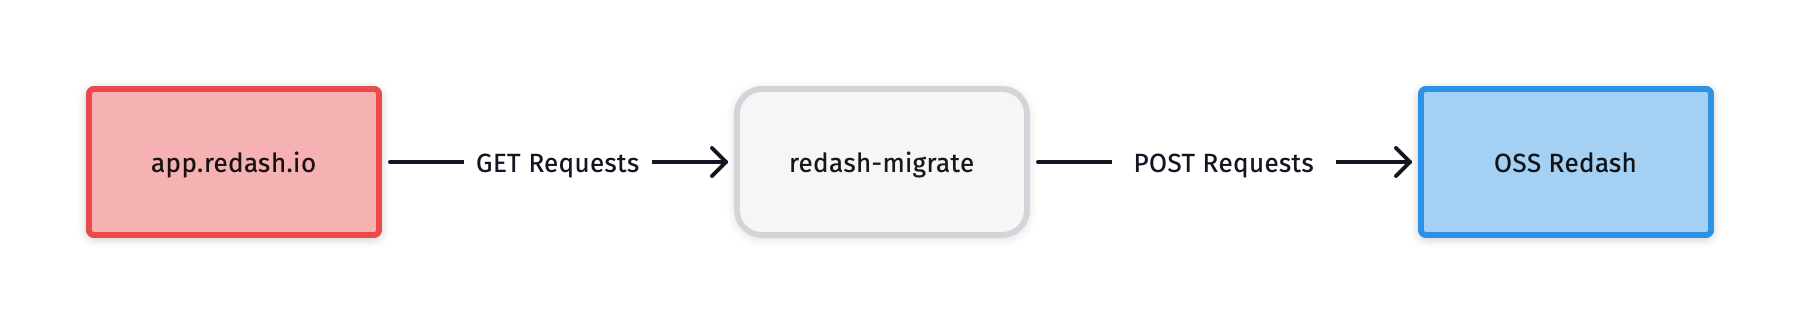
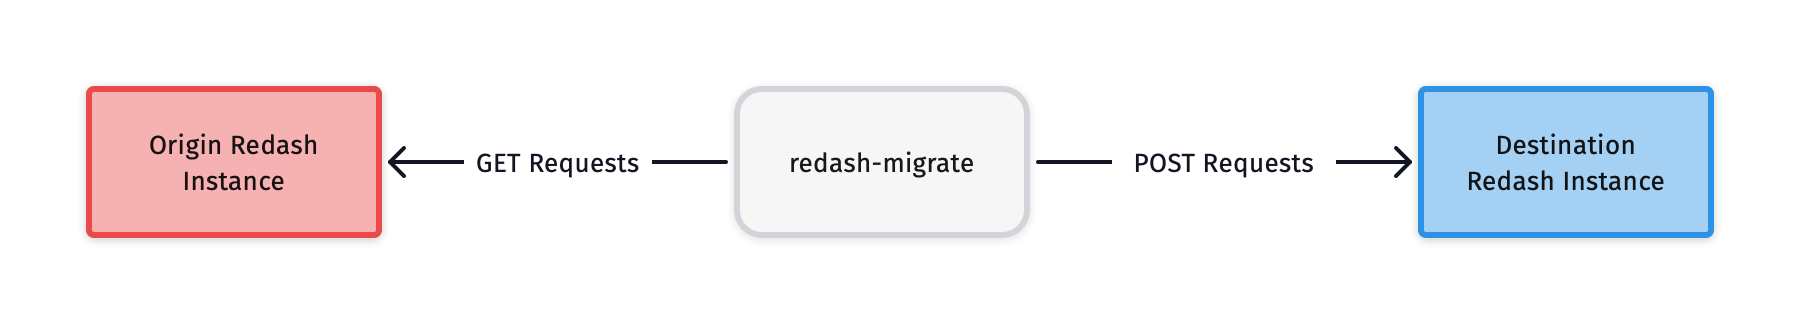
WIP: Readme

diff --git a/redash_toolbelt/docs/redash-migrate/README.md b/redash_toolbelt/docs/redash-migrate/README.md
@@ -4,11 +4,13 @@ redash-migrate - Move data from one instance of Redash to another
 - [INSTALLATION](#installation)
 - [DESCRIPTION](#description)
 - [METAFILE](#meta.json)
+  - [SETTINGS](#settings)
 - [COMMANDS](#commands)
+  - [RUNNING COMMANDS](#running-commands)
 - [FAQ](#faq)
-- [DEVELOPER INSTRUCTIONS](#developer-instructions)
-- [BUGS](#bugs)
-COPYRIGHT
+- [DEVELOPER INSTRUCTIONS]
+- [BUGS]
+- [COPYRIGHT](#copyright)
 
 ## INSTALLATION
 
@@ -72,9 +74,7 @@ preserve_invite_links   Whether or not to write user invitation links into meta.
 ```
 
 ## COMMANDS
-
-You can run `redash-migrate --help` to see the available commands. They are listed in the correct order. For example, you must import users before you import groups. You must import alert destinations before you import alerts. 
-
+You can run `redash-migrate --help` to see the available commands. 
 
 ```text
 init                  Create a meta.json template file in your working directory. You must 
@@ -104,47 +104,27 @@ disable_users         Disable users in the destination instance that are disable
                       origin instance.
 ```
 
+### RUNNING COMMANDS
 
-----------------------
+Commands are always listed in the correct order. For example, you must import users before you import groups. You must import alert destinations before you import alerts.
 
-For a video version of this document, click [here](#link-to-youtube-video).
+With exception of `init` and `check_data_sources`, each command will insert new data into your destination instance. _The origin instance is never modified_. The script only emits GET requests to the origin instance. It emits both GET and POST requests to the destination instance.
 
-### _Outline_
-- Intended users
-- Background
-- How does it work
+![Diagram that shows redash-migrate making GET requests to the origin instance and POST requests to the destination instance](redash-migrate-data-flow.png)
 
-## Acknowledgements
-
-Huge thanks to those who have contributed to and beta tested this script, including: 
-
-This document is inspired by the README for [youtube-dl](https://github.com/ytdl-org/youtube-dl).
-
-### _Subheadings_
-
-
-![Migration Data Flow Diagram](redash-migrate-data-flow.png)
-
-
-
-
-## Setup
-
-
-
-## Running the migration
-
-
-### Re-running individual steps
-
+Commands are idempotent. The same query, dashboard, visualization etc. will not be imported twice. If you run `redash-migrate queries` repeatedly, the command will only attempt to import queries that were not successfully migrated during a previous execution.
 
 ## FAQ
 
-### I found a different script online, why should I use yours instead?
+### Is there a video that shows how to run redash-migrate
 
-This migration script is the only one we can support. We wrote it because the previous migration script would no longer work reliably on newer versions of Redash (since V7). You can use any script you want to migrate from one instance to another. But we recommend this one for ease-of-use and because it has been tested by many members of the Redash community.
-- How can I back up my app.redash.io data
+Not yet. But we're making one. It will be linked here as soon as it's ready.
 
+### I found a different script online, why should I use redash-migrate instead?
 
-### How can I back-up my Hosted Redash data?
+redash-migrate is the officially supported migration tool. We wrote it because the previous migration script did not  work reliably with newer versions of Redash (since V7). But you can use any tool you want. Or fork this one and modify it for your needs.
 
+## COPYRIGHT
+redash-migrate is released into the public domain by the copyright holders.
+
+This README file was originally written by Jesse Whitehouse and is likewise released to the public domain. This README file is based on the work of Daniel Bolton for youtube-dl with deep gratitude for that effort.
